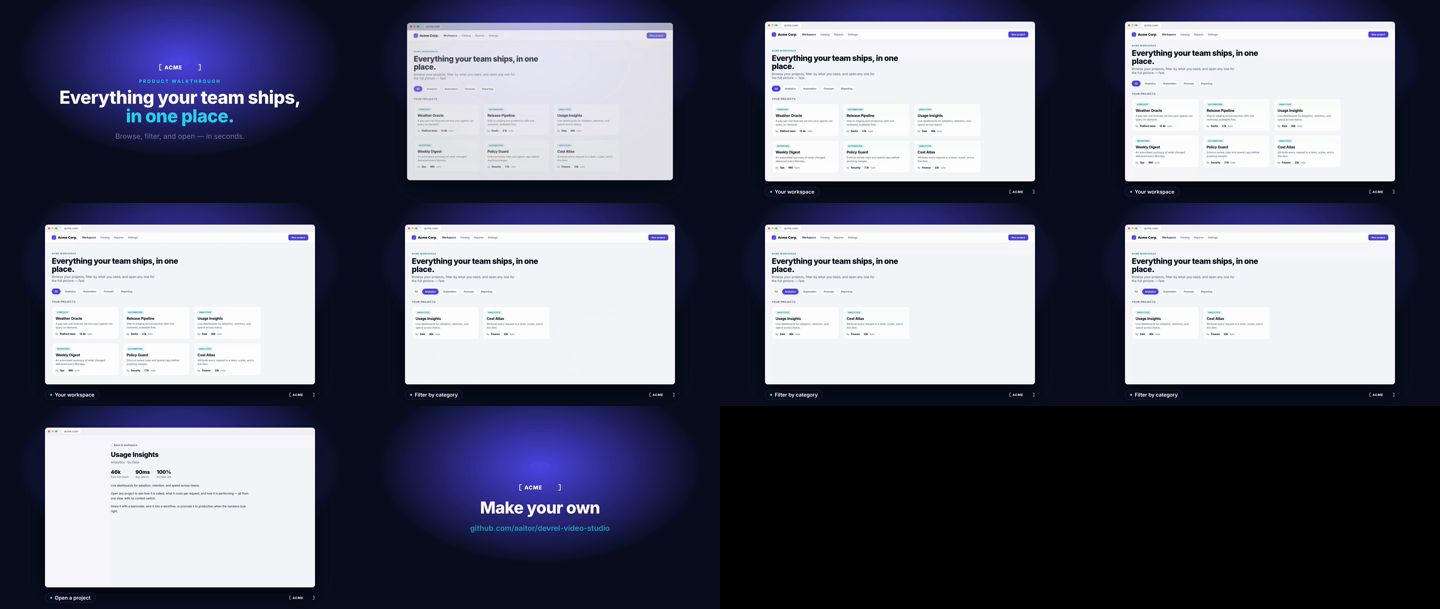
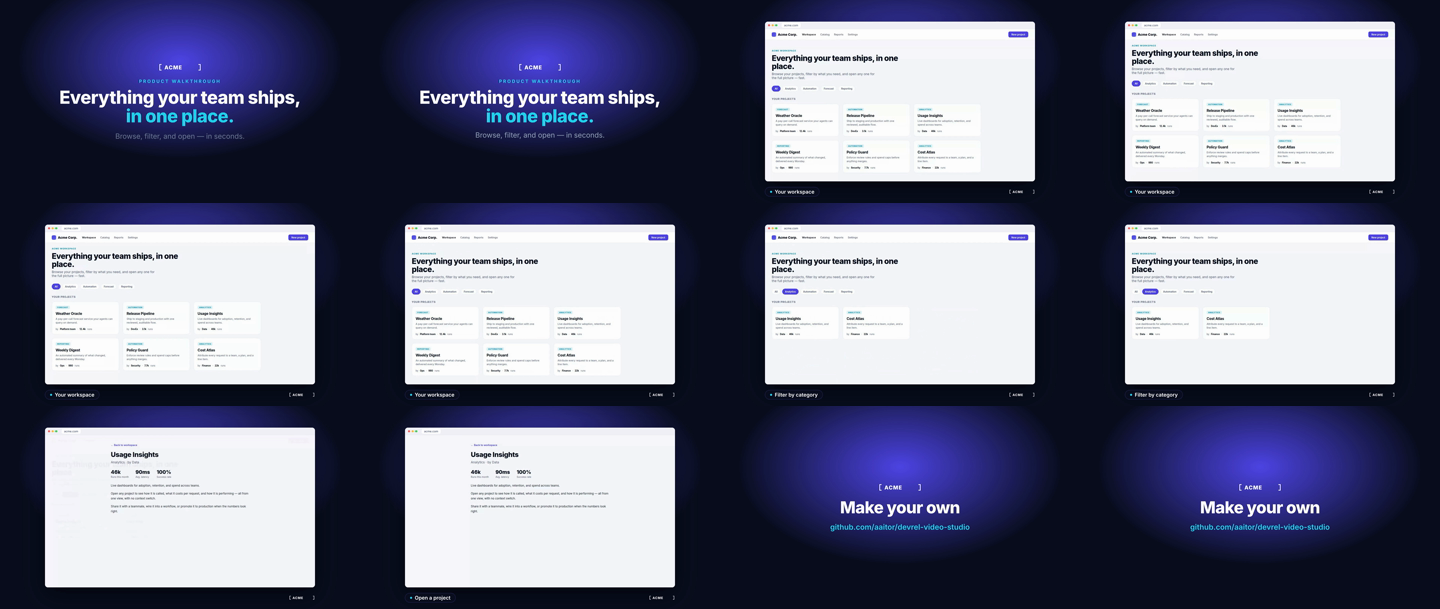
feat(example): narration + music + subtitles, YouTube thumbnail + README GIF
- narrated cut via variant.sh (voice leah, ducked music bed, EN/ES subtitles), 25.7s @ -16 LUFS
- add narrate.py + captions.en/es.srt; index.html retimed to the voice + a bgm audio seam
- new reusable thumbnail step in the skill: templates/thumbnail.html + scripts/thumbnail.sh
  -> renders/thumbnail.jpg (1280x720, <2MB); plus renders/demo.gif for the README
- README: Demo section with the GIF; SKILL step 6.1 + delegation-map row for thumbnails
- .gitignore: allow renders/{thumbnail.jpg,demo.gif}; ignore timing.json

diff --git a/projects/example-walkthrough/index.html b/projects/example-walkthrough/index.html
@@ -54,12 +54,12 @@
       </symbol>
     </svg>
 
-    <div id="root" data-composition-id="main" data-start="0" data-duration="22.8" data-width="1920" data-height="1080">
+    <div id="root" data-composition-id="main" data-start="0" data-duration="25.66" data-width="1920" data-height="1080">
 
-      <div id="bg" class="clip fill bg" data-start="0" data-duration="22.8" data-track-index="0" style="z-index:0"></div>
+      <div id="bg" class="clip fill bg" data-start="0" data-duration="25.66" data-track-index="0" style="z-index:0"></div>
 
       <!-- Scene 1 — title -->
-      <div id="title" class="clip fill center bg" data-start="0" data-duration="3.05" data-track-index="1" style="z-index:5">
+      <div id="title" class="clip fill center bg" data-start="0" data-duration="4.3" data-track-index="1" style="z-index:5">
         <svg class="wordmark" viewBox="0 0 132 24" width="220" height="40" style="margin-bottom:10px"><use href="#brand-logo" /></svg>
         <div class="kicker">Product walkthrough</div>
         <div class="t-title">Everything your team ships, <span class="hl">in one place.</span></div>
@@ -67,7 +67,7 @@
       </div>
 
       <!-- Scene 2 — framed product footage -->
-      <div id="frame" class="clip" data-start="3.0" data-duration="17.37" data-track-index="1">
+      <div id="frame" class="clip" data-start="4.3" data-duration="17.37" data-track-index="1">
         <div class="bar">
           <span class="dot" style="background:#ff5f57"></span>
           <span class="dot" style="background:#febc2e"></span>
@@ -75,16 +75,19 @@
           <span class="url">acme.com</span>
         </div>
       </div>
-      <video id="a-roll" class="clip" src="capture.mp4" muted playsinline data-start="3.0" data-duration="17.37" data-track-index="0"></video>
-      <svg id="brandmark" class="clip wordmark" viewBox="0 0 132 24" width="132" height="24" data-start="3.0" data-duration="17.37" data-track-index="2"><use href="#brand-logo" /></svg>
+      <video id="a-roll" class="clip" src="capture.mp4" muted playsinline data-start="4.3" data-duration="17.37" data-track-index="0"></video>
+      <svg id="brandmark" class="clip wordmark" viewBox="0 0 132 24" width="132" height="24" data-start="4.3" data-duration="17.37" data-track-index="2"><use href="#brand-logo" /></svg>
 
       <!-- chapter lower-thirds — data-start = 3.0 + capture-beat time -->
-      <div id="ch1" class="clip chapter" data-start="3.3" data-duration="7.5" data-track-index="3"><span class="d"></span> Your workspace</div>
-      <div id="ch2" class="clip chapter" data-start="10.8" data-duration="6.3" data-track-index="3"><span class="d"></span> Filter by category</div>
-      <div id="ch3" class="clip chapter" data-start="17.1" data-duration="3.2" data-track-index="3"><span class="d"></span> Open a project</div>
+      <div id="ch1" class="clip chapter" data-start="4.6" data-duration="7.5" data-track-index="3"><span class="d"></span> Your workspace</div>
+      <div id="ch2" class="clip chapter" data-start="12.3" data-duration="6.1" data-track-index="3"><span class="d"></span> Filter by category</div>
+      <div id="ch3" class="clip chapter" data-start="18.6" data-duration="3.07" data-track-index="3"><span class="d"></span> Open a project</div>
+
+      <!-- Audio — ducked music bed + narration pre-mixed (scripts/variant.sh → narration-mix.mp3) -->
+      <audio id="bgm" class="clip" src="narration-mix.mp3" data-start="0" data-duration="25.66" data-track-index="9" data-volume="1"></audio>
 
       <!-- Scene 3 — CTA -->
-      <div id="cta" class="clip fill center bg" data-start="20.2" data-duration="2.6" data-track-index="4" style="z-index:8">
+      <div id="cta" class="clip fill center bg" data-start="21.67" data-duration="3.99" data-track-index="4" style="z-index:8">
         <svg class="wordmark" viewBox="0 0 132 24" width="220" height="40" style="margin-bottom:34px"><use href="#brand-logo" /></svg>
         <div class="cta-title">Make your own</div>
         <div class="cta-url">github.com/aaitor/devrel-video-studio</div>
@@ -99,15 +102,15 @@
       tl.from("#title .kicker",   { opacity: 0, y: -18, duration: 0.6 }, 0.25);
       tl.from("#title .t-title",  { opacity: 0, y: 34, duration: 0.7 }, 0.45);
       tl.from("#title .t-sub",    { opacity: 0, y: 20, duration: 0.6 }, 0.8);
-      tl.from("#frame",  { opacity: 0, scale: 0.95, duration: 0.6 }, 3.0);
-      tl.from("#a-roll", { opacity: 0, scale: 0.95, duration: 0.6 }, 3.0);
-      tl.from("#brandmark", { opacity: 0, duration: 0.5 }, 3.3);
-      tl.from("#ch1", { opacity: 0, x: -26, duration: 0.5 }, 3.3);
-      tl.from("#ch2", { opacity: 0, x: -26, duration: 0.5 }, 10.8);
-      tl.from("#ch3", { opacity: 0, x: -26, duration: 0.5 }, 17.1);
-      tl.from("#cta .wordmark",  { opacity: 0, y: 22, duration: 0.5 }, 20.2);
-      tl.from("#cta .cta-title", { opacity: 0, y: 28, duration: 0.6 }, 20.35);
-      tl.from("#cta .cta-url",   { opacity: 0, y: 20, duration: 0.6 }, 20.6);
+      tl.from("#frame",  { opacity: 0, scale: 0.95, duration: 0.6 }, 4.3);
+      tl.from("#a-roll", { opacity: 0, scale: 0.95, duration: 0.6 }, 4.3);
+      tl.from("#brandmark", { opacity: 0, duration: 0.5 }, 4.6);
+      tl.from("#ch1", { opacity: 0, x: -26, duration: 0.5 }, 4.7);
+      tl.from("#ch2", { opacity: 0, x: -26, duration: 0.5 }, 12.4);
+      tl.from("#ch3", { opacity: 0, x: -26, duration: 0.5 }, 18.7);
+      tl.from("#cta .wordmark",  { opacity: 0, y: 22, duration: 0.5 }, 21.77);
+      tl.from("#cta .cta-title", { opacity: 0, y: 28, duration: 0.6 }, 21.9);
+      tl.from("#cta .cta-url",   { opacity: 0, y: 20, duration: 0.6 }, 22.15);
       window.__timelines["main"] = tl;
     </script>
   </body>

diff --git a/projects/example-walkthrough/thumbnail.html b/projects/example-walkthrough/thumbnail.html
@@ -1,0 +1,57 @@
+<!doctype html>
+<html lang="en">
+  <head>
+    <meta charset="UTF-8" />
+    <meta name="viewport" content="width=1280, height=720" />
+    <!-- filled from templates/thumbnail.html + brands/acme/tokens.json. Build: scripts/thumbnail.sh projects/example-walkthrough -->
+    <link rel="preconnect" href="https://fonts.googleapis.com" />
+    <link href="https://fonts.googleapis.com/css2?family=Inter:wght@400;600;700;800&display=block" rel="stylesheet" />
+    <style>
+      :root { --brand:#4f46e5; --brand-deep:#0b1020; --highlight:#22d3ee; --muted:#94a3b8; }
+      * { margin:0; padding:0; box-sizing:border-box; }
+      html, body { width:1280px; height:720px; overflow:hidden; }
+      body { font-family:"Inter", system-ui, sans-serif; color:#fff;
+        background: radial-gradient(900px 560px at 26% 32%, var(--brand) 0%, var(--brand-deep) 70%); -webkit-font-smoothing:antialiased; }
+      .wrap { position:absolute; inset:0; display:flex; align-items:center; gap:46px; padding:0 72px; }
+      .left { width:560px; flex:none; }
+      .wordmark { height:34px; color:#fff; display:block; margin-bottom:26px; }
+      .kicker { font-size:21px; font-weight:700; letter-spacing:.22em; text-transform:uppercase; color:var(--highlight); margin-bottom:18px; }
+      h1 { font-size:66px; font-weight:800; line-height:1.02; letter-spacing:-.02em; }
+      h1 .hl { color:var(--highlight); }
+      .sub { font-size:25px; color:var(--muted); margin-top:22px; font-weight:500; }
+
+      .hero { position:relative; flex:1; height:470px; border-radius:16px; overflow:hidden;
+        box-shadow:0 50px 120px rgba(0,0,0,.55); transform:perspective(1600px) rotateY(-9deg) rotateX(2deg) scale(1.02);
+        background:#fff; border:1px solid rgba(255,255,255,.12); }
+      .hero .bar { height:34px; display:flex; align-items:center; gap:7px; padding:0 14px; background:#f1f3f8; border-bottom:1px solid #e3e7f0; }
+      .hero .dot { width:10px; height:10px; border-radius:50%; }
+      .hero .url { margin-left:12px; font-size:13px; color:#5b647c; background:#fff; border:1px solid #e3e7f0; border-radius:7px; padding:3px 12px; font-weight:500; }
+      .hero img { display:block; width:100%; height:calc(100% - 34px); object-fit:cover; object-position:top left; }
+      .play { position:absolute; left:50%; top:calc(50% + 17px); transform:translate(-50%,-50%);
+        width:96px; height:96px; border-radius:50%; background:var(--highlight); display:flex; align-items:center; justify-content:center;
+        box-shadow:0 14px 44px rgba(0,0,0,.5); }
+      .play::after { content:""; border-left:30px solid var(--brand-deep); border-top:19px solid transparent; border-bottom:19px solid transparent; margin-left:7px; }
+    </style>
+  </head>
+  <body>
+    <svg width="0" height="0" style="position:absolute" aria-hidden="true">
+      <symbol id="brand-logo" viewBox="0 0 132 24" fill="currentColor">
+        <path d="M0 2h7v2.2H2.2v15.6H7V22H0zM132 2h-7v2.2h4.8v15.6H125V22h7z"/>
+        <text x="16" y="18.5" font-family="Inter, system-ui, sans-serif" font-size="17" font-weight="800" letter-spacing="1.5">ACME</text>
+      </symbol>
+    </svg>
+    <div class="wrap">
+      <div class="left">
+        <svg class="wordmark" viewBox="0 0 132 24" width="187"><use href="#brand-logo" /></svg>
+        <div class="kicker">DevRel Video Studio</div>
+        <h1>Turn any URL into a <span class="hl">demo video</span>.</h1>
+        <div class="sub">Record · frame · narrate · ship — all local.</div>
+      </div>
+      <div class="hero">
+        <div class="bar"><span class="dot" style="background:#ff5f57"></span><span class="dot" style="background:#febc2e"></span><span class="dot" style="background:#28c840"></span><span class="url">acme.com</span></div>
+        <img src="renders/hero.png" alt="" />
+        <div class="play"></div>
+      </div>
+    </div>
+  </body>
+</html>

diff --git a/.claude/skills/devrel-video/templates/thumbnail.html b/.claude/skills/devrel-video/templates/thumbnail.html
@@ -1,0 +1,54 @@
+<!doctype html>
+<html lang="en">
+  <head>
+    <meta charset="UTF-8" />
+    <meta name="viewport" content="width=1280, height=720" />
+    <!-- TEMPLATE — YouTube thumbnail (1280×720). Copy to projects/<slug>/thumbnail.html, fill {{...}} from
+         brief + brands/<name>/tokens.json, then `scripts/thumbnail.sh projects/<slug>` → renders/thumbnail.jpg.
+         The hero shot (renders/hero.png) is extracted from capture.mp4 by that script. ponytail: fonts from CDN. -->
+    <link rel="preconnect" href="https://fonts.googleapis.com" />
+    <link href="https://fonts.googleapis.com/css2?family={{FONT}}:wght@400;600;700;800&display=block" rel="stylesheet" />
+    <style>
+      :root { --brand: {{BRAND}}; --brand-deep: {{BRAND_DEEP}}; --highlight: {{HIGHLIGHT}}; --muted:#94a3b8; }
+      * { margin:0; padding:0; box-sizing:border-box; }
+      html, body { width:1280px; height:720px; overflow:hidden; }
+      body { font-family:"{{FONT}}", system-ui, sans-serif; color:#fff;
+        background: radial-gradient(900px 560px at 26% 32%, var(--brand) 0%, var(--brand-deep) 70%); -webkit-font-smoothing:antialiased; }
+      .wrap { position:absolute; inset:0; display:flex; align-items:center; gap:46px; padding:0 72px; }
+      .left { width:560px; flex:none; }
+      .wordmark { height:34px; color:#fff; display:block; margin-bottom:26px; }
+      .kicker { font-size:21px; font-weight:700; letter-spacing:.22em; text-transform:uppercase; color:var(--highlight); margin-bottom:18px; }
+      h1 { font-size:66px; font-weight:800; line-height:1.02; letter-spacing:-.02em; }
+      h1 .hl { color:var(--highlight); }
+      .sub { font-size:25px; color:var(--muted); margin-top:22px; font-weight:500; }
+
+      .hero { position:relative; flex:1; height:470px; border-radius:16px; overflow:hidden;
+        box-shadow:0 50px 120px rgba(0,0,0,.55); transform:perspective(1600px) rotateY(-9deg) rotateX(2deg) scale(1.02);
+        background:#fff; border:1px solid rgba(255,255,255,.12); }
+      .hero .bar { height:34px; display:flex; align-items:center; gap:7px; padding:0 14px; background:#f1f3f8; border-bottom:1px solid #e3e7f0; }
+      .hero .dot { width:10px; height:10px; border-radius:50%; }
+      .hero .url { margin-left:12px; font-size:13px; color:#5b647c; background:#fff; border:1px solid #e3e7f0; border-radius:7px; padding:3px 12px; font-weight:500; }
+      .hero img { display:block; width:100%; height:calc(100% - 34px); object-fit:cover; object-position:top left; }
+      .play { position:absolute; left:50%; top:calc(50% + 17px); transform:translate(-50%,-50%);
+        width:96px; height:96px; border-radius:50%; background:var(--highlight); display:flex; align-items:center; justify-content:center;
+        box-shadow:0 14px 44px rgba(0,0,0,.5); }
+      .play::after { content:""; border-left:30px solid var(--brand-deep); border-top:19px solid transparent; border-bottom:19px solid transparent; margin-left:7px; }
+    </style>
+  </head>
+  <body>
+    {{LOGO_SYMBOL}}
+    <div class="wrap">
+      <div class="left">
+        <svg class="wordmark" viewBox="0 0 132 24" width="187"><use href="#brand-logo" /></svg>
+        <div class="kicker">{{KICKER}}</div>
+        <h1>{{HEADLINE_HTML}}</h1>
+        <div class="sub">{{SUB}}</div>
+      </div>
+      <div class="hero">
+        <div class="bar"><span class="dot" style="background:#ff5f57"></span><span class="dot" style="background:#febc2e"></span><span class="dot" style="background:#28c840"></span><span class="url">{{URL_LABEL}}</span></div>
+        <img src="renders/hero.png" alt="" />
+        <div class="play"></div>
+      </div>
+    </div>
+  </body>
+</html>

diff --git a/projects/example-walkthrough/narrate.py b/projects/example-walkthrough/narrate.py
@@ -1,0 +1,86 @@
+#!/usr/bin/env python3
+# example-walkthrough narration — copy of templates/narrate.py adapted to this cut.
+# FOOT_DUR = ffprobe capture.mp4 (17.37s); FILTER/INSPECT_CAP = capture-time of the filter / open beats.
+# The VOICE drives the timeline: scene/chapter times come from real line lengths. Expects vo1..vo5.wav.
+import sys, wave, json
+import numpy as np
+
+SR = 48000
+FOOT_DUR = 17.37
+FILTER_CAP, INSPECT_CAP = 7.8, 14.1
+LEAD, TAIL = 0.4, 0.4
+
+# One spoken line per beat — clean text (no parens/version numbers; em-dash -> comma).
+SPOKEN = [
+    "Acme. Everything your team ships, in one place.",
+    "Your workspace shows every project at a glance.",
+    "Filter by category to find exactly what you need.",
+    "Open any project for the detail and the numbers.",
+    "Make your own with the open source DevRel Video Studio.",
+]
+if "--lines" in sys.argv:
+    print("\n".join(SPOKEN)); raise SystemExit
+
+def load(path):
+    with wave.open(path, 'rb') as w:
+        sr, ch, n = w.getframerate(), w.getnchannels(), w.getnframes()
+        d = np.frombuffer(w.readframes(n), dtype='<i2').astype(np.float32) / 32768.0
+    if ch == 2:
+        d = d.reshape(-1, 2).mean(axis=1)
+    if sr != SR:
+        d = np.interp(np.arange(int(len(d) * SR / sr)) / SR, np.arange(len(d)) / sr, d)
+    return d
+
+vos = [load(f"vo{i}.wav") for i in range(1, 6)]
+dur = [len(v) / SR for v in vos]
+
+title_dur = LEAD + dur[0] + TAIL
+fs = title_dur
+p1 = LEAD
+p2 = fs + 0.3
+p3 = max(p2 + dur[1] + 0.2, fs + FILTER_CAP)
+p4 = max(p3 + dur[2] + 0.2, fs + INSPECT_CAP)
+foot_end = fs + FOOT_DUR
+cta_start = foot_end
+p5 = cta_start + 0.2
+cta_dur = 0.2 + dur[4] + 0.5
+total = cta_start + cta_dur
+starts = [p1, p2, p3, p4, p5]
+
+N = int(total * SR)
+voice = np.zeros(N)
+for v, p in zip(vos, starts):
+    i0 = int(p * SR); i1 = min(N, i0 + len(v)); voice[i0:i1] += v[:i1 - i0]
+st = np.clip(np.stack([voice, voice], axis=1), -1, 1)
+with wave.open('voice.wav', 'wb') as w:
+    w.setnchannels(2); w.setsampwidth(2); w.setframerate(SR)
+    w.writeframes((st * 32767).astype('<i2').tobytes())
+
+def ts(x):
+    ms = int(round(x * 1000))
+    return f"{ms//3600000:02d}:{ms%3600000//60000:02d}:{ms%60000//1000:02d},{ms%1000:03d}"
+EN = ["Acme — everything your team ships,\nin one place.",
+      "Your workspace shows every\nproject at a glance.",
+      "Filter by category to find\nexactly what you need.",
+      "Open any project for the\ndetail and the numbers.",
+      "Make your own with the\nopen-source DevRel Video Studio."]
+ES = ["Acme: todo lo que tu equipo entrega,\nen un solo lugar.",
+      "Tu espacio muestra cada\nproyecto de un vistazo.",
+      "Filtra por categoría para encontrar\nexactamente lo que necesitas.",
+      "Abre cualquier proyecto para ver\nel detalle y las métricas.",
+      "Crea el tuyo con el DevRel Video Studio,\nde código abierto."]
+for lang, txt in (('en', EN), ('es', ES)):
+    out = [f"{i}\n{ts(s)} --> {ts(s + d)}\n{t}\n" for i, (s, d, t) in enumerate(zip(starts, dur, txt), 1)]
+    open(f"captions.{lang}.srt", 'w').write("\n".join(out))
+
+timing = {
+    "total": round(total, 2), "title_dur": round(title_dur, 2), "footage_start": round(fs, 2),
+    "footage_dur": FOOT_DUR, "cta_start": round(cta_start, 2), "cta_dur": round(cta_dur, 2),
+    "vo_starts": [round(x, 2) for x in starts],
+    "line_durs": [round(d, 2) for d in dur],
+    "ch1": [round(p2, 2), round(fs + FILTER_CAP, 2)],
+    "ch2": [round(fs + FILTER_CAP + 0.2, 2), round(fs + INSPECT_CAP, 2)],
+    "ch3": [round(fs + INSPECT_CAP + 0.2, 2), round(foot_end, 2)],
+}
+json.dump(timing, open("timing.json", "w"), indent=2)
+print(json.dumps(timing, indent=2))

diff --git a/projects/example-walkthrough/README.md b/projects/example-walkthrough/README.md
@@ -1,12 +1,16 @@
 # example-walkthrough
 
-A worked example: a ~22s **silent** browser tour, framed and chaptered with the `/devrel-video` pipeline.
+The studio's worked example: a product tour recorded, framed, and chaptered by the `/devrel-video` pipeline.
 It records a **self-contained Acme mock app** (`./site/` — served locally, no login, no PII, no external
-dependency) and frames it with the default **Acme** brand (`brands/acme/`). `renders/contact-sample.png`
-shows the beats. Swap `./site/` for your real product URL and the brand, and you have your own video.
+dependency) and frames it with the default **Acme** brand (`brands/acme/`). It ships both a **silent** cut and a
+**narrated** one (voice `leah` + a ducked music bed + EN/ES subtitles, ~26s). Swap `./site/` for your real
+product URL and the brand, and you have your own video.
 
-> `capture.mp4` and `renders/*.mp4` are **gitignored** — regenerate them by running the pipeline. The
-> committed source is `brief.yaml` + `capture.js` + `site/` + `index.html` (+ the sample frame).
+![example walkthrough](renders/demo.gif)
+
+> `capture.mp4` and `renders/*.mp4` are **gitignored** — regenerate them by running the pipeline. Committed:
+> `brief.yaml`, `capture.js`, `site/`, `index.html`, `narrate.py`, `captions.*.srt`, and
+> `renders/{contact-sample.png, thumbnail.jpg, demo.gif}`.
 
 ## Make it
 
@@ -14,18 +18,22 @@ shows the beats. Swap `./site/` for your real product URL and the brand, and you
 # from the repo root
 S=.claude/skills/devrel-video
 
-# 1. serve the mock app, then capture the live flow (3 beats: workspace → filter → open a project)
+# 1. serve the mock app, then capture the live flow (3 beats: workspace → filter by category → open a project)
 python3 -m http.server 8000 --directory projects/example-walkthrough/site &
 $S/scripts/capture.sh projects/example-walkthrough/capture.js "http://localhost:8000/"
 kill %1   # stop the server
 
-# 2. compose: scaffold, then fill index.html from the template + the brand tokens
+# 2. compose + render the SILENT cut
 HYPERFRAMES_SKIP_SKILLS=1 npx hyperframes init projects/example-walkthrough --video capture.mp4 --skip-transcribe --non-interactive
-#    → index.html is filled from $S/templates/composition.html + brands/acme/tokens.json
-#      (title → framed footage → chapter lower-thirds synced to the beats → CTA)
-
-# 3. render + QA
+#    → fill index.html from $S/templates/composition.html + brands/acme/tokens.json
 $S/scripts/render-qa.sh projects/example-walkthrough
+
+# 3. add narration + music + EN/ES subtitles (one command — needs a TTS endpoint; see scripts/_env.sh)
+DEVREL_VIDEO_ENV=~/.config/devrel-video/env.rc \
+  $S/scripts/variant.sh projects/example-walkthrough leah --no-avatar     # → renders/out-leah.mp4
+
+# 4. YouTube thumbnail (1280×720) + a README GIF
+$S/scripts/thumbnail.sh projects/example-walkthrough                       # → renders/thumbnail.jpg
 ```
 
 ## Make it yours
@@ -33,5 +41,7 @@ $S/scripts/render-qa.sh projects/example-walkthrough
 - **Your product**: point `capture.url` at it (set `start_command` for a local app), confirm selectors in the
   Explore step (SKILL §2), set `url_label`.
 - **Your brand**: `scripts/brand-extract.sh <your-url> <name>` → set `brand: <name>` in `brief.yaml`.
-- **Optional layers** (all off here): narration, music, subtitles, a face-only avatar, and multi-environment
-  (terminal ⇄ browser) — see SKILL §5.4–5.8. Narration/avatar are "bring your own" infra (see `scripts/_env.sh`).
+- **Swap the voice**: `scripts/variant.sh projects/example-walkthrough <voice> --no-avatar` (male leo/dan/zac,
+  female leah/tara/jess/mia/zoe).
+- **Optional layers**: a face-only avatar and multi-environment (terminal ⇄ browser) — see SKILL §5.7–5.8.
+  Narration/avatar are "bring your own" infra (see `scripts/_env.sh`).

diff --git a/.claude/skills/devrel-video/SKILL.md b/.claude/skills/devrel-video/SKILL.md
@@ -76,6 +76,9 @@ For a demo that moves between the CLI and the web (e.g. **prompt in Claude Code 
 - Security: no keys/wallets/PII; all CDN assets vendored for confidential projects.
 - Terminal beats: sanitized — no host paths, no "transcript saving is off" / MCP-auth warnings, no onboarding popups on screen.
 
+### 6.1 · Thumbnail (required deliverable)
+Every video also ships a **YouTube thumbnail** (not just the QA contact sheet): copy `templates/thumbnail.html` → `projects/<slug>/thumbnail.html`, fill it from the brief + `brands/<name>/tokens.json` (kicker, headline, url label), then `scripts/thumbnail.sh projects/<slug>` → `renders/thumbnail.jpg` (1280×720, <2MB; pulls the hero shot from `capture.mp4`). For a README/social loop, a short GIF off the master: `ffmpeg -ss <t> -to <t> -i renders/out.mp4 -vf "fps=12,scale=880:-1,palettegen" …` → `paletteuse`.
+
 ## Delegation map — do not reinvent
 
 | Need | Use |
@@ -90,6 +93,7 @@ For a demo that moves between the CLI and the web (e.g. **prompt in Claude Code 
 | Narration timing → composition | `templates/narrate.py` (writes `timing.json`) + `scripts/retime.py` |
 | Swap the narration voice (whole re-gen) | `scripts/variant.sh <project> <voice>` |
 | Master / convert / QA | FFmpeg / ffprobe (`scripts/render-qa.sh`) |
+| YouTube thumbnail (1280×720) | `scripts/thumbnail.sh` (`templates/thumbnail.html`) |
 
 ## Roadmap
 

diff --git a/README.md b/README.md
@@ -6,6 +6,14 @@ master with **FFmpeg** — orchestrated by the `/devrel-video` skill.
 
 Full design + rationale: [`local-devrel-video-studio-guide.md`](local-devrel-video-studio-guide.md) (v1.2).
 
+## Demo
+
+![DevRel Video Studio — example walkthrough](projects/example-walkthrough/renders/demo.gif)
+
+A ~26s narrated demo produced end-to-end by this studio — the [`example-walkthrough`](projects/example-walkthrough/)
+project (a self-contained sample app, captured silently; narration + music + EN/ES subtitles added with one
+`variant.sh` command). <!-- YT --> Full video with sound on YouTube *(link coming soon)*.
+
 ## Layout
 
 ```
